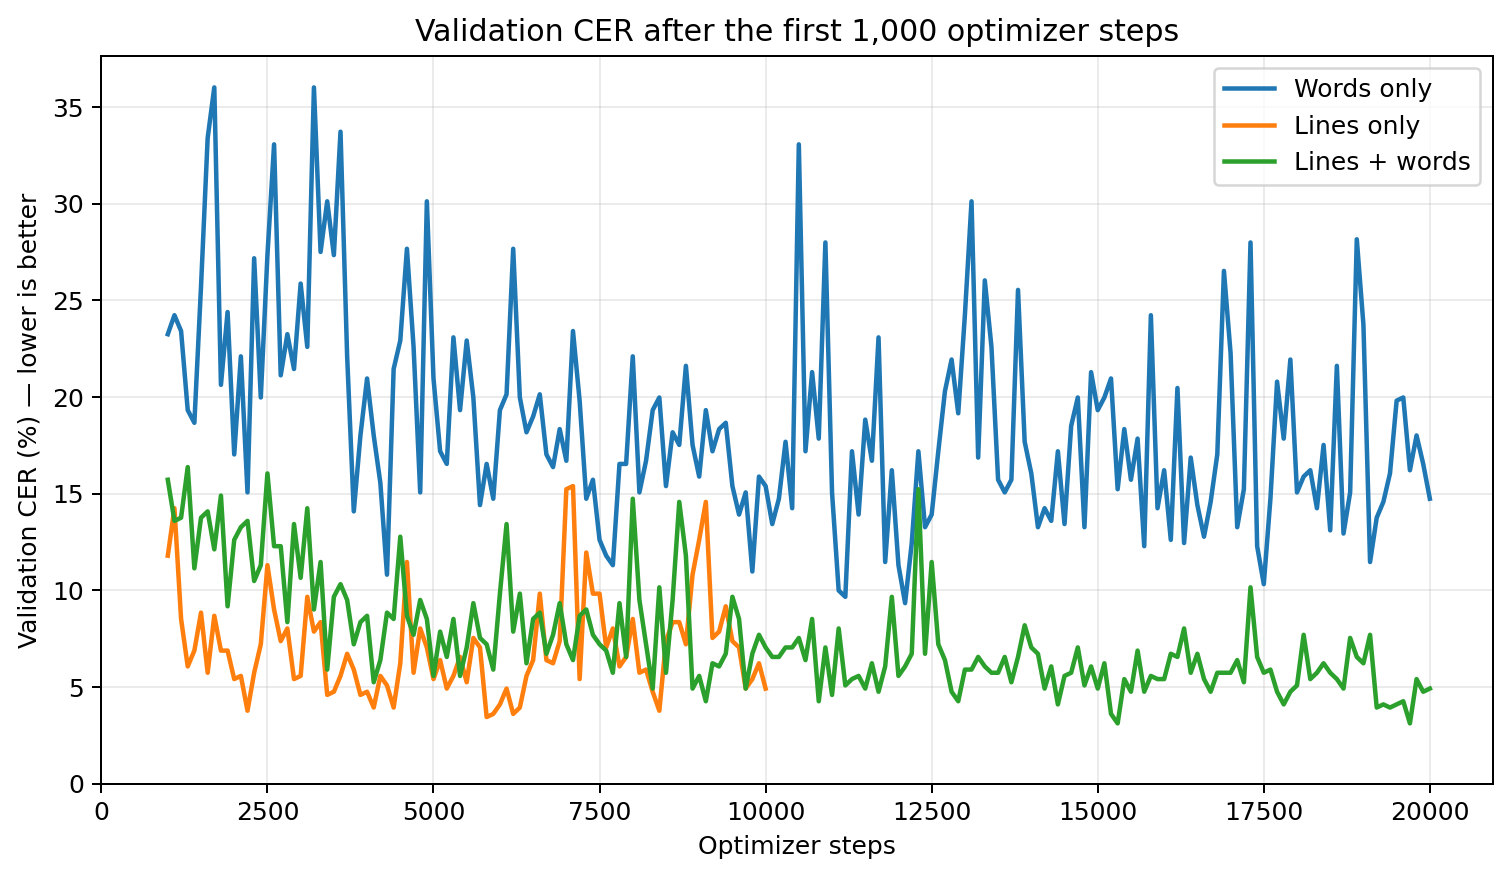
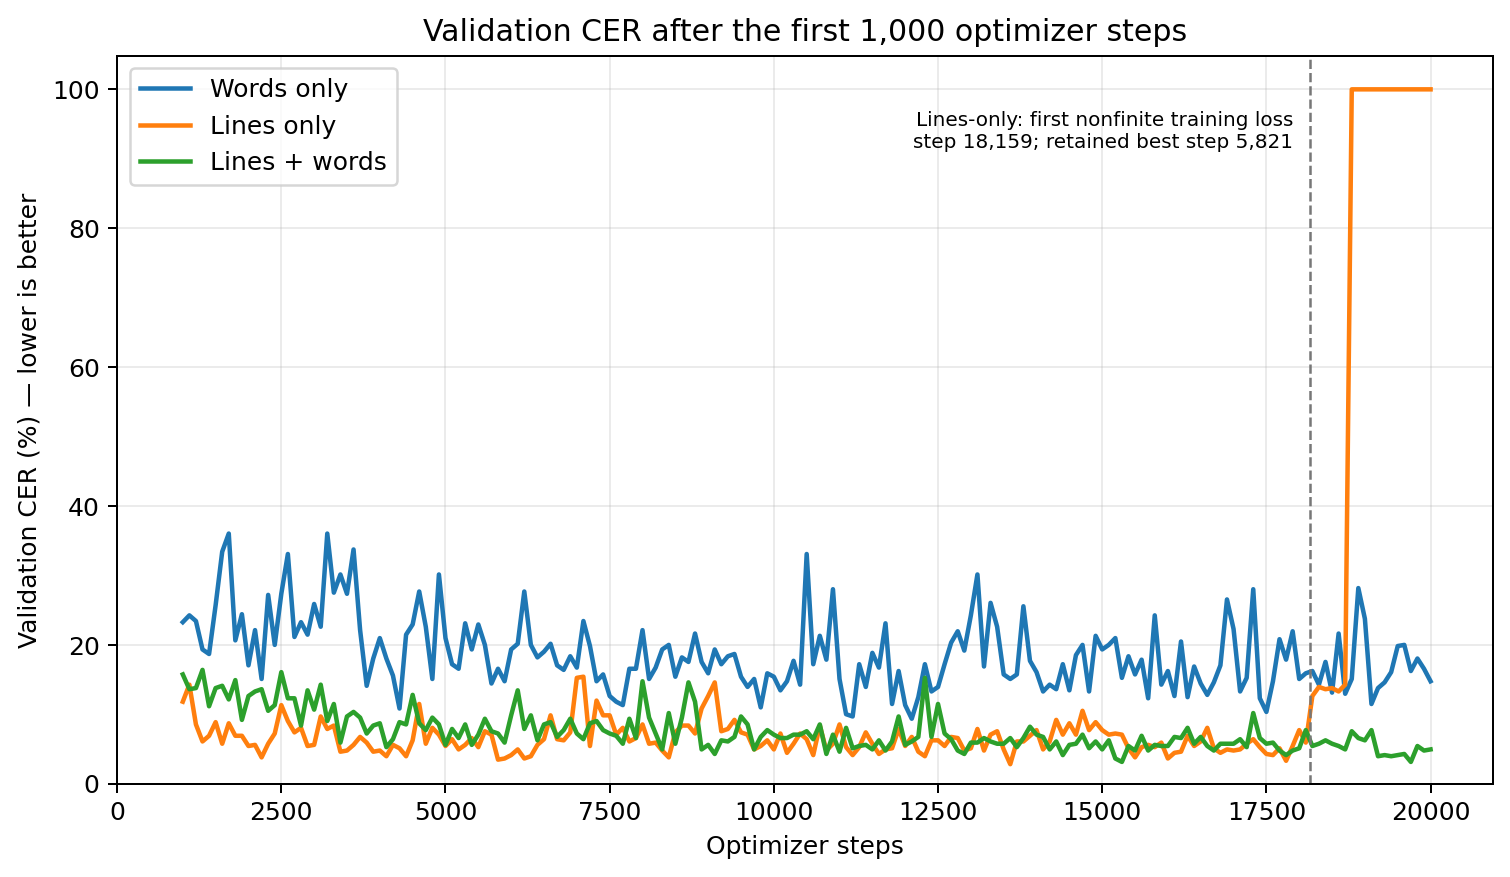
Correct lines-only baseline to include 20000-step continuation and numerical failure

diff --git a/scripts/generate_public_results.py b/scripts/generate_public_results.py
@@ -18,7 +18,10 @@ FINAL_RESULTS = RESULTS_DIR / "verified_baseline_results.csv"
 CURVES = RESULTS_DIR / "verified_validation_curves.csv"
 LOCAL_RUNS = {
     "Words only": [Path("output/only_words_four_datasets_20000_rotation/run/metrics.csv")],
-    "Lines only": [Path("output/manual_lines_10000_rotation/run/metrics.csv")],
+    "Lines only": [
+        Path("output/manual_lines_10000_rotation/run/metrics.csv"),
+        Path("output/manual_lines_10000_rotation_continued_20000/run/metrics.csv"),
+    ],
     "Lines + words": [
         Path("output/manual_lines_plus_words_10000_rotation/run/metrics.csv"),
         Path("output/manual_lines_plus_words_continued_20000/run/metrics.csv"),
@@ -119,6 +122,9 @@ def plot_validation_curves():
             linewidth=1.8,
         )
     axis.set_title("Validation CER after the first 1,000 optimizer steps")
+    axis.axvline(18159, color="#777777", linestyle="--", linewidth=1)
+    axis.text(18159 - 250, 97, "Lines-only: first nonfinite training loss\nstep 18,159; retained best step 5,821",
+              ha="right", va="top", fontsize=8)
     axis.set_xlabel("Optimizer steps")
     axis.set_ylabel("Validation CER (%) — lower is better")
     axis.set_xlim(left=0)

diff --git a/FINAL_TEST_REPORT.md b/FINAL_TEST_REPORT.md
@@ -20,7 +20,7 @@ This hash check detects exact file duplicates. It does not by itself rule out re
 
 ## Evaluated checkpoints
 
-The original scan covered 19 `best_model.pth` files, including complete experiments, smoke tests and one partial run. The four-dataset words-only checkpoint was evaluated separately. The table below includes only the 11 substantive training runs; smoke-test checkpoints are excluded because they are not meaningful trained models.
+The original scan covered 19 `best_model.pth` files, including complete experiments, smoke tests and one partial run. The four-dataset words-only checkpoint was evaluated separately. The table below includes 11 substantive result entries; smoke-test checkpoints are excluded because they are not meaningful trained models. The lines-only entry includes its continuation to step 20,000, which retained the same best checkpoint as the initial 10,000-step phase.
 
 ## Results from completed runs
 
@@ -28,7 +28,7 @@ The original scan covered 19 `best_model.pth` files, including complete experime
 |---|---:|---:|---:|---:|---:|
 | Lines + words, continued to 20,000 steps | 15,341 | **16/32** | **50.00%** | **3.07%** | **96.93%** |
 | Regularized | 1,440 | 15/32 | 46.88% | 4.33% | 95.67% |
-| Lines only, 10,000 steps | 5,821 | 13/32 | 40.63% | 4.33% | 95.67% |
+| Lines only, continued to 20,000 steps (late numerical failure) | 5,821 | 13/32 | 40.63% | 4.33% | 95.67% |
 | Lines + words, 10,000 steps | 9,762 | 7/32 | 21.88% | 6.01% | 93.99% |
 | Words only, four datasets, 20,000 steps | 12,086 | 5/32 | 15.63% | 11.31% | 88.69% |
 | Words, rotation, cleaned | 5,443 | 8/32 | 25.00% | 19.41% | 80.59% |
@@ -39,6 +39,12 @@ The original scan covered 19 `best_model.pth` files, including complete experime
 | Words + Physics | 7,376 | 3/32 | 9.38% | 36.03% | 63.97% |
 
 CER is the character error rate, so lower is better. Character accuracy is reported as `1 - CER`.
+
+### Lines-only run-length correction (9 September 2026)
+
+The earlier report incorrectly described lines-only training as ending at 10,000 steps. The adapted-baseline continuation in `output/manual_lines_10000_rotation_continued_20000/run` resumed from step 10,000 and logged every step from 10,001 through 20,000. This is separate from the paper-style runs.
+
+The best model remained at step 5,821: SHA-256 verification confirms that the original and continuation `best_model.pth` files are byte-identical. Its existing final evaluation remains 13/32 exact lines and CER 4.33%; those metrics are not from the last-step checkpoint. Training loss first became nonfinite at step 18,159, and all training losses after step 18,745 are nonfinite. The step-20,000 last checkpoint contains 132 nonfinite model tensors. The continuation therefore reached the requested step counter but did not provide 20,000 healthy updates or a better selected model. See [audit evidence](docs/results/lines_only_continuation_audit.md).
 
 ## Best checkpoint
 
@@ -68,7 +74,7 @@ These three results were independently verified with `evaluate_line_folder.py`. 
 1. The 20,000-step lines-plus-words checkpoint is the strongest available model.
 2. In our experiments, exposure to complete lines was strongly beneficial when the evaluation input was a complete line.
 3. In the available experiments, sufficiently trained mixed data produced the best final-test result.
-4. The historical three-way comparison is not a perfectly controlled ablation. All three central runs used batch size 16, but their training-step budgets, dataset sizes and effective numbers of epochs differ. The comparison supports an empirical trend, but does not prove that mixed data alone caused the improvement.
+4. The historical three-way comparison is not a perfectly controlled ablation. All three central runs used batch size 16 and reached recorded step 20,000, but dataset sizes and effective numbers of epochs differ, and the lines-only continuation suffered numerical failure. The comparison supports an empirical trend, but does not prove that mixed data alone caused the improvement.
 5. The final test contains only 32 lines, so the reported percentages have substantial sampling uncertainty.
 6. A 3.07% CER is a strong project result, but 50.00% exact-line accuracy still calls for human review in a production workflow.
 

diff --git a/README.md b/README.md
@@ -136,14 +136,16 @@ The following selected checkpoints were evaluated independently on the same 32 f
 | Training data | Training steps | Best step | Exact lines | CER | Character accuracy |
 |---|---:|---:|---:|---:|---:|
 | Words only: four word datasets | 20,000 | 12,086 | 5/32 (15.63%) | 11.31% | 88.69% |
-| Lines only | 10,000 | 5,821 | 13/32 (40.63%) | 4.33% | 95.67% |
+| Lines only (continued; numerical failure late in training) | 20,000 | 5,821 | 13/32 (40.63%) | 4.33% | 95.67% |
 | Lines + words | 20,000 | 15,341 | **16/32 (50.00%)** | **3.07%** | **96.93%** |
 
-These historical runs used the same batch size (16), optimizer, learning rate, image size, seed and light-rotation augmentation. They are not a perfectly controlled ablation because the training-step budgets, dataset sizes and effective numbers of epochs differ. They nevertheless show the main empirical pattern: in our experiments, models exposed to full lines performed substantially better on line recognition than the word-only model, and the sufficiently trained mixed dataset produced our best checkpoint.
+These historical runs used the same batch size (16), optimizer, learning rate, image size, seed and light-rotation augmentation, and all reached a recorded step count of 20,000. They are not a perfectly controlled ablation: dataset sizes and effective numbers of epochs differ, and the lines-only continuation suffered numerical failure. They nevertheless show the main empirical pattern: in our experiments, models exposed to full lines performed substantially better on line recognition than the word-only model, and the sufficiently trained mixed dataset produced our best checkpoint.
+
+Correction (9 September 2026): the earlier summary omitted `output/manual_lines_10000_rotation_continued_20000/run`, which resumed the 10,000-step lines-only baseline and reached step 20,000 using our adapted recipe, not the paper-style recipe. Its best checkpoint remained at step 5,821 and is byte-identical to the earlier best checkpoint, so final-test metrics are unchanged. Training loss first became nonfinite at step 18,159; the last checkpoint at step 20,000 contains nonfinite model tensors. Thus 20,000 is the recorded run length, not 20,000 healthy training updates. See the [audit](docs/results/lines_only_continuation_audit.md).
 
 ![Verified final-test comparison](docs/results/verified_final_test_comparison.png)
 
-The figure above reports the same held-out results as the table. A second figure with the recorded validation curves is available at [`docs/results/verified_validation_curves.png`](docs/results/verified_validation_curves.png). The lines-only curve ends at 10,000 steps, while the word-only and mixed runs continue to 20,000; the graph therefore documents the historical runs rather than claiming a step-matched ablation.
+The figure above reports the same held-out results as the table. A second figure with the recorded validation curves is available at [`docs/results/verified_validation_curves.png`](docs/results/verified_validation_curves.png). All curves include records through step 20,000. The lines-only continuation and its numerical failure are included explicitly; the figure does not imply equally successful training across the three runs.
 
 During verification we found that an earlier implementation of chunked paper-style training used the end of each chunk, rather than the global target step, as the cosine-schedule horizon. The code in this repository now uses the global `--steps` value. Metrics created by the earlier chunk-local implementation must not be described as a faithful reproduction; rerun the paper-style script to regenerate corrected results.
 

diff --git a/docs/results/lines_only_continuation_audit.md b/docs/results/lines_only_continuation_audit.md
@@ -1,0 +1,44 @@
+# Lines-only adapted-baseline continuation audit
+
+Verified against local logs and checkpoint files on 9 September 2026.
+
+The earlier README, final-test report and public curves omitted the second phase of this run. Lines-only training did continue to recorded step 20,000 using our adapted baseline. The final-test metrics were correct for the selected checkpoint; the reported run length was incomplete.
+
+## Evidence
+
+| Evidence | Observed value |
+|---|---|
+| Initial run | `output/manual_lines_10000_rotation/run` |
+| Continuation | `output/manual_lines_10000_rotation_continued_20000/run` |
+| Continuation config | `start_step=10000`, `steps=20000`; resumes initial `last_model.pth` and retains initial `best_model.pth` |
+| Baseline settings | Batch 16, learning rate 0.0005, weight decay 0.0001, light rotation, 1,438 line training samples |
+| Initial metric records | 10,000 rows, steps 1 through 10,000; all training losses finite |
+| Continuation metric records | 10,000 rows, steps 10,001 through 20,000 |
+| Summary | `completed_steps=20000`, `best_step=5821` |
+| First nonfinite training loss | Step 18,159 |
+| Nonfinite training-loss rows in continuation | 1,395; last finite training loss at step 18,745 |
+| First nonfinite validation loss | Step 18,160 |
+| Nonfinite validation-loss rows in continuation | 1,291; last finite validation loss at step 18,744 |
+| Best checkpoint | Step 5,821, no nonfinite model tensors |
+| Last checkpoint | Step 20,000, 132 model-state tensors containing nonfinite values |
+| Existing final-test evaluation of continuation best | 32 lines, 13 exact, CER 0.04329608938547486, whitespace excluded |
+
+The initial and continuation best checkpoint files have the same SHA-256:
+
+```text
[1 lines of base64/hex data omitted]
+```
+
+The continuation last checkpoint SHA-256 is:
+
+```text
[1 lines of base64/hex data omitted]
+```
+
+The final metrics come from the existing evaluation at `output/harmonit_final_test_all_models/manual_lines_10000_rotation_continued_20000_run_best_model.pth/summary.json`. No new inference was needed to establish equivalence: the two best checkpoint files are byte-identical. This audit does not establish the root cause of the numerical failure.
+
+## Reporting the experiment
+
+Report **20,000 recorded training steps, selected checkpoint at step 5,821, numerical failure during the continuation**. Do not describe the run as ending at 10,000, as 20,000 healthy optimization updates, or as a paper-style experiment. The 4.33% CER and 13/32 exact-line result remain unchanged.
+
+The public validation CSV and graph now include both training phases. The marker at step 18,159 identifies the first nonfinite training loss; the plotted validation CER values are retained as logged, including the failure interval. Matching run lengths alone does not make this a controlled comparison.

diff --git a/docs/results/README.md b/docs/results/README.md
@@ -7,7 +7,7 @@ These figures summarize the three central AdamW baseline experiments described i
 - `verified_baseline_results.csv` contains the values used in the final-test figure.
 - `verified_validation_curves.csv` contains the downsampled values used in the validation figure.
 
-The historical comparison is not a fully controlled ablation. All three runs used batch size 16, AdamW, learning rate `5e-4`, weight decay `1e-4`, image size 64x1024, seed 123 and light rotation. However, the lines-only run ended at 10,000 steps, the other runs ended at 20,000 steps, and the dataset sizes differ.
+The historical comparison is not a fully controlled ablation. All three runs used batch size 16, AdamW, learning rate `5e-4`, weight decay `1e-4`, image size 64x1024, seed 123 and light rotation, and all reached recorded step 20,000. Dataset sizes differ, and the lines-only continuation suffered numerical failure: its first nonfinite training loss occurs at step 18,159. The selected best checkpoint remains step 5,821. The previous figure omitted this continuation; the corrected curve includes it. See the [checkpoint and log audit](lines_only_continuation_audit.md).
 
 Regenerate the figures from the committed CSV files:
 
